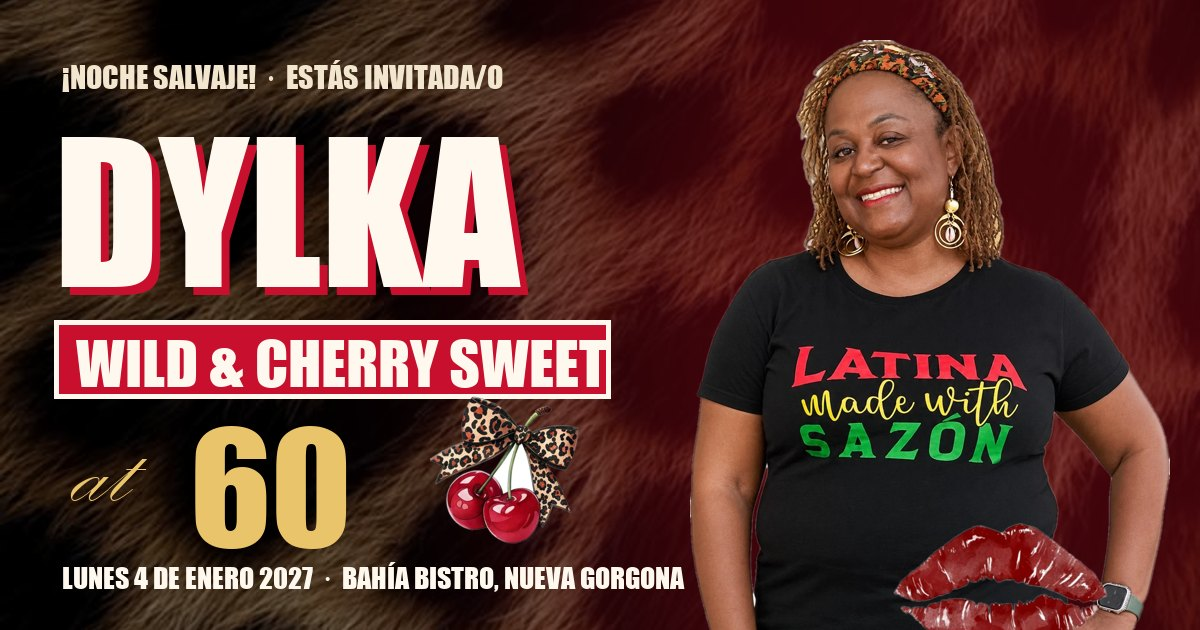
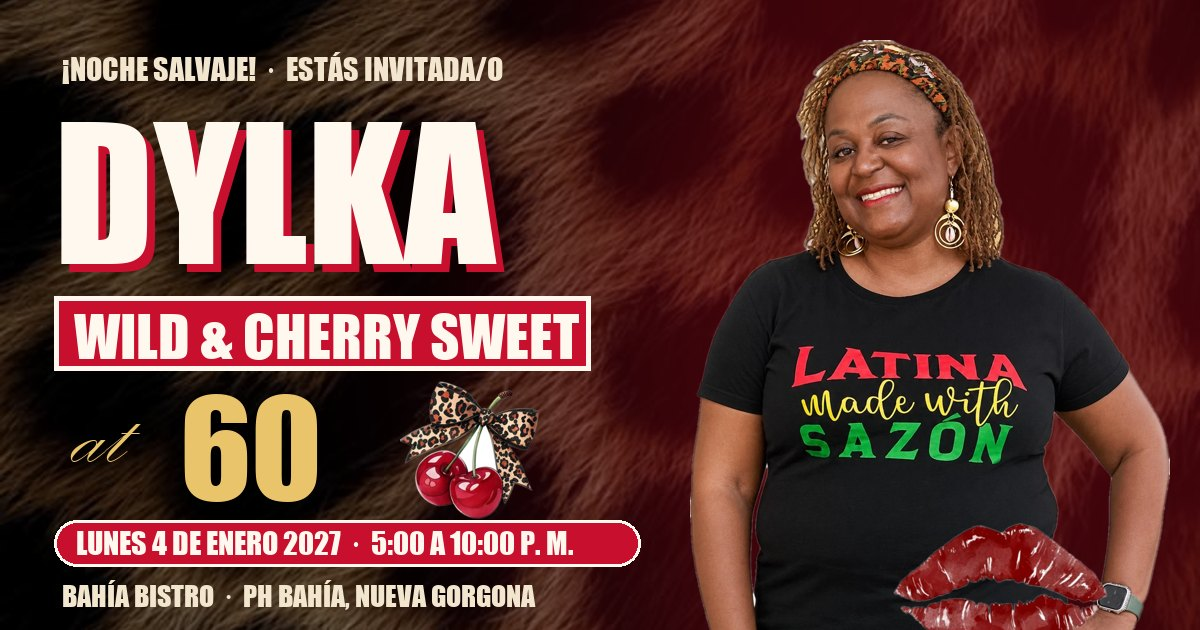
Horario 5:00 a 10:00 p. m., confirmación directa desde el enlace y contador automático en el panel

Changed region(s): [[0.0308, 0.181, 0.5858, 0.9651], [0.0308, 0.0905, 0.4317, 0.1508], [0.0617, 0.6635, 0.1233, 0.7841]]

diff --git a/index.html b/index.html
@@ -9,10 +9,10 @@
 <meta property="og:type" content="website">
 <meta property="og:site_name" content="Wild &amp; Cherry Sweet at 60">
 <meta property="og:title" content="Dylka · Wild &amp; Cherry Sweet at 60 🍒">
-<meta property="og:description" content="¡Estás invitada/o! Lunes 4 de enero de 2027 · Bahía Bistro, Nueva Gorgona. Toca para abrir tu invitación.">
+<meta property="og:description" content="¡Estás invitada/o! Lunes 4 de enero de 2027 · 5:00 a 10:00 p. m. · Bahía Bistro, Nueva Gorgona. Toca para abrir tu invitación.">
 <meta property="og:url" content="https://jadeinkinvitacionesdigitales-source.github.io/dylka-60/">
-<meta property="og:image" content="https://jadeinkinvitacionesdigitales-source.github.io/dylka-60/preview.jpg">
-<meta property="og:image:secure_url" content="https://jadeinkinvitacionesdigitales-source.github.io/dylka-60/preview.jpg">
+<meta property="og:image" content="https://jadeinkinvitacionesdigitales-source.github.io/dylka-60/preview.jpg?v=2">
+<meta property="og:image:secure_url" content="https://jadeinkinvitacionesdigitales-source.github.io/dylka-60/preview.jpg?v=2">
 <meta property="og:image:type" content="image/jpeg">
 <meta property="og:image:width" content="1200">
 <meta property="og:image:height" content="630">
@@ -21,7 +21,7 @@
 <meta property="og:locale:alternate" content="en_US">
 <meta name="twitter:card" content="summary_large_image">
 <meta name="theme-color" content="#0b0706">
-<meta name="description" content="Estás invitada/o a celebrar los 60 de Dylka: Wild & Cherry Sweet. Lunes 4 de enero de 2027, Bahía Bistro, Nueva Gorgona.">
+<meta name="description" content="Estás invitada/o a celebrar los 60 de Dylka: Wild & Cherry Sweet. Lunes 4 de enero de 2027, de 5:00 a 10:00 p. m., Bahía Bistro, Nueva Gorgona.">
 <link rel="preconnect" href="https://fonts.googleapis.com">
 <link rel="preconnect" href="https://fonts.gstatic.com" crossorigin>
 <link rel="stylesheet" href="https://fonts.googleapis.com/css2?family=Anton&family=Montserrat:wght@500;600;800;900&family=Pinyon+Script&display=swap">
@@ -98,6 +98,7 @@
   .seal:focus-visible { outline: 3px solid var(--gold); outline-offset: 10px; }
   .cover.kissing .seal { animation: none; }
   .cover.kissing .seal img { animation: kissZoom .7s cubic-bezier(.6,0,.4,1) forwards; }
+  .cover-date { font-weight: 800; letter-spacing: .16em; font-size: .74rem; color: var(--ink); background: rgba(200,16,46,.85); border: 2px solid var(--ink); border-radius: 999px; padding: 7px 14px; }
   .cover .hint { font-size: .8rem; color: var(--cream); opacity: .8; }
   @keyframes beat { 0%,100% { transform: scale(1); } 15% { transform: scale(1.07); } 30% { transform: scale(.98); } 45% { transform: scale(1.04); } }
   @keyframes ring { from { opacity: .9; scale: 1; } to { opacity: 0; scale: 1.45; } }
@@ -218,6 +219,7 @@
   .card { background: var(--card); border: 2px solid var(--gold); border-radius: 26px; padding: 18px 20px; }
   .lab { display: inline-block; background: var(--cherry); border: 3px solid var(--ink); font-family: var(--f-slam); font-size: 1.4rem; line-height: 1; padding: 5px 14px 2px; margin-bottom: 10px; }
   .big { font-weight: 900; font-size: 1.2rem; letter-spacing: .02em; line-height: 1.2; }
+  .small.time { font-weight: 800; font-size: 1.05rem; color: var(--gold); letter-spacing: .02em; }
   .small { font-weight: 500; font-size: .95rem; color: var(--cream); margin-top: 4px; line-height: 1.4; }
   .btn { display: inline-flex; align-items: center; gap: 8px; margin-top: 14px; padding: 12px 20px; border-radius: 999px; border: 3px solid var(--ink);
     background: var(--gold); color: var(--night); font-weight: 900; font-size: .9rem; letter-spacing: .06em; text-decoration: none; cursor: pointer; font-family: var(--f-body);
@@ -296,6 +298,7 @@
     <div class="guest" id="guestCover" hidden><small data-i18n="forYou">ESTA INVITACIÓN ES PARA</small><strong id="guestName"></strong><span id="guestSeats"></span></div>
     <h1>DYLKA</h1>
     <div class="when">Wild &amp; Cherry Sweet at 60</div>
+    <div class="cover-date" data-i18n="coverDate">LUNES 4 DE ENERO · 5:00 A 10:00 P. M.</div>
     <button class="seal" id="open" type="button" aria-label="Abrir la invitación" data-i18n-aria="openInvite">
       <img src="img/lips_red.webp" alt="">
       <span data-i18n="openMe">ÁBREME</span>
@@ -321,7 +324,7 @@
     <div class="age"><span class="at">at</span><span class="sixty" id="sixty">60</span></div>
     <div class="stage">
     <div class="xo">xoxo</div>
-    <div class="heart h1"><svg viewBox="0 0 100 92" aria-hidden="true"><path d="M50 88C20 66 2 50 2 28 2 12 14 2 28 2c10 0 18 6 22 14 4-8 12-14 22-14 14 0 26 10 26 26 0 22-18 38-48 60Z" fill="#c8102e" stroke="#fff8ee" stroke-width="3"/></svg><b data-i18n-html="heartDate">LUNES<br>4 ENE<br>2027</b></div>
+    <div class="heart h1"><svg viewBox="0 0 100 92" aria-hidden="true"><path d="M50 88C20 66 2 50 2 28 2 12 14 2 28 2c10 0 18 6 22 14 4-8 12-14 22-14 14 0 26 10 26 26 0 22-18 38-48 60Z" fill="#c8102e" stroke="#fff8ee" stroke-width="3"/></svg><b data-i18n-html="heartDate">LUNES<br>4 ENE<br>5 P. M.</b></div>
     <div class="heart h2"><svg viewBox="0 0 100 92" aria-hidden="true"><path d="M50 88C20 66 2 50 2 28 2 12 14 2 28 2c10 0 18 6 22 14 4-8 12-14 22-14 14 0 26 10 26 26 0 22-18 38-48 60Z" fill="#c8102e" stroke="#fff8ee" stroke-width="3"/></svg><b data-i18n-html="heartAge">MIS<br>60<br>AÑOS</b></div>
     <div class="photo"><img src="img/dylka.webp" alt="Dylka" width="760" height="1107"></div>
     </div>
@@ -350,6 +353,7 @@
       <div class="card" data-rv="left" style="--d:.1s">
         <div class="lab" data-i18n="when">CUÁNDO</div>
         <div class="big" data-i18n="date">LUNES 4 DE ENERO · 2027</div>
+        <div class="small time" data-i18n="time">De 5:00 p. m. a 10:00 p. m.</div>
       </div>
       <div class="card" data-rv="right" style="--d:.25s">
         <div class="lab" data-i18n="where">DÓNDE</div>
@@ -430,15 +434,15 @@
   const T = {
     es: {
       openInvite: 'Abrir la invitación', invited: 'TIENES UNA INVITACIÓN', openMe: 'ÁBREME', hint: 'Toca el beso · con música 🎶',
-      wild: '¡NOCHE SALVAJE!', heartDate: 'LUNES<br>4 ENE<br>2027', heartAge: 'MIS<br>60<br>AÑOS',
+      wild: '¡NOCHE SALVAJE!', heartDate: 'LUNES<br>4 ENE<br>5 P. M.', heartAge: 'MIS<br>60<br>AÑOS',
       countdown: 'FALTAN', days: 'DÍAS', hours: 'HORAS', mins: 'MIN', secs: 'SEG',
       countNote: 'para la noche más salvaje del año', today: '¡Hoy es la fiesta! 🍒',
-      party: 'LA FIESTA', seeYou: 'te espero', when: 'CUÁNDO', date: 'LUNES 4 DE ENERO · 2027', where: 'DÓNDE', directions: '📍 CÓMO LLEGAR',
+      party: 'LA FIESTA', seeYou: 'te espero', when: 'CUÁNDO', date: 'LUNES 4 DE ENERO · 2027', time: 'De 5:00 p. m. a 10:00 p. m.', coverDate: 'LUNES 4 DE ENERO · 5:00 A 10:00 P. M.', where: 'DÓNDE', directions: '📍 CÓMO LLEGAR',
       comeWild: 'ven salvaje', ladies: 'ELLAS', gents: 'ELLOS', safari: 'ESTILO SAFARI',
       rsvp: 'CONFIRMA', yourName: 'TU NOMBRE', namePh: 'Ej. María Pérez', attend: '¿Asistirás?', yes: '¡AHÍ ESTARÉ! 🍒', no: 'NO PODRÉ 💔',
       howMany: '¿CUÁNTAS PERSONAS?', message: 'MENSAJE PARA DYLKA (OPCIONAL)', msgPh: '¡Feliz 60!', send: 'ENVIAR POR WHATSAPP',
       love: 'con amor, Dylka', music: 'Música: activar o pausar', noName: '(sin nombre)',
-      waYes: (n, c) => `¡Hola Dylka! 🍒 Soy ${n} y confirmo mi asistencia a Wild & Cherry Sweet at 60 (lunes 4 de enero, Bahía Bistro). Seremos ${c} persona(s).`,
+      waYes: (n, c) => `¡Hola Dylka! 🍒 Soy ${n} y confirmo mi asistencia a Wild & Cherry Sweet at 60 (lunes 4 de enero, 5:00 p. m., Bahía Bistro). Seremos ${c} persona(s).`,
       waNo: n => `¡Hola Dylka! Soy ${n}. Lamentablemente no podré asistir a Wild & Cherry Sweet at 60. ¡Te deseo una noche increíble!`,
       forYou: 'ESTA INVITACIÓN ES PARA', seats: p => p === 1 ? '1 PUESTO RESERVADO' : `${p} PUESTOS RESERVADOS`,
       seatsNote: p => p === 1 ? 'Tenemos 1 puesto reservado para ti' : `Tenemos ${p} puestos reservados para ti`,
@@ -449,15 +453,15 @@
     },
     en: {
       openInvite: 'Open the invitation', invited: "YOU'RE INVITED", openMe: 'OPEN ME', hint: 'Tap the kiss · with music 🎶',
-      wild: 'A WILD NIGHT!', heartDate: 'MON<br>JAN 4<br>2027', heartAge: "I'M<br>TURNING<br>60",
+      wild: 'A WILD NIGHT!', heartDate: 'MON<br>JAN 4<br>5 PM', heartAge: "I'M<br>TURNING<br>60",
       countdown: 'COUNTDOWN', days: 'DAYS', hours: 'HOURS', mins: 'MIN', secs: 'SEC',
       countNote: 'until the wildest night of the year', today: "It's party day! 🍒",
-      party: 'THE PARTY', seeYou: 'see you there', when: 'WHEN', date: 'MONDAY, JANUARY 4 · 2027', where: 'WHERE', directions: '📍 GET DIRECTIONS',
+      party: 'THE PARTY', seeYou: 'see you there', when: 'WHEN', date: 'MONDAY, JANUARY 4 · 2027', time: 'From 5:00 PM to 10:00 PM', coverDate: 'MONDAY, JANUARY 4 · 5 TO 10 PM', where: 'WHERE', directions: '📍 GET DIRECTIONS',
       comeWild: 'come wild', ladies: 'LADIES', gents: 'GENTS', safari: 'SAFARI STYLE',
       rsvp: 'RSVP', yourName: 'YOUR NAME', namePh: 'e.g. Mary Smith', attend: 'Will you attend?', yes: "I'LL BE THERE! 🍒", no: "CAN'T MAKE IT 💔",
       howMany: 'HOW MANY GUESTS?', message: 'MESSAGE FOR DYLKA (OPTIONAL)', msgPh: 'Happy 60th!', send: 'SEND VIA WHATSAPP',
       love: 'with love, Dylka', music: 'Music: play or pause', noName: '(no name)',
-      waYes: (n, c) => `Hi Dylka! 🍒 This is ${n}, and I'm confirming for Wild & Cherry Sweet at 60 (Monday, January 4, Bahía Bistro). We'll be ${c} guest(s).`,
+      waYes: (n, c) => `Hi Dylka! 🍒 This is ${n}, and I'm confirming for Wild & Cherry Sweet at 60 (Monday, January 4, 5:00 PM, Bahía Bistro). We'll be ${c} guest(s).`,
       waNo: n => `Hi Dylka! This is ${n}. Unfortunately I can't make it to Wild & Cherry Sweet at 60. Wishing you an amazing night!`,
       forYou: 'THIS INVITATION IS FOR', seats: p => p === 1 ? '1 SEAT RESERVED' : `${p} SEATS RESERVED`,
       seatsNote: p => p === 1 ? 'We have 1 seat reserved for you' : `We have ${p} seats reserved for you`,
@@ -477,7 +481,7 @@
     const p = Math.max(1, Math.min(20, parseInt(qs.get('p'), 10) || 1));
     return { id: (qs.get('i') || '').replace(/[^a-zA-Z0-9_-]/g, '').slice(0, 40), name: n, seats: p };
   })();
-  const SAVE_KEY = 'dylka-rsvp-' + (guest && guest.id ? guest.id : 'general');
+  const SAVE_KEY = 'dylka-rsvp-' + (guest ? (guest.id || guest.name.toLowerCase()) : 'general');
   let saved = null;
   try { saved = JSON.parse(localStorage.getItem(SAVE_KEY) || 'null'); } catch (e) {}
   let lang = 'es';
@@ -576,7 +580,7 @@
   if (!reduce) requestAnimationFrame(frame);
 
   /* ---------- cuenta regresiva (hora de Panamá, UTC-5) ---------- */
-  const target = Date.parse('2027-01-04T00:00:00-05:00');
+  const target = Date.parse('2027-01-04T17:00:00-05:00');
   const pad = n => String(n).padStart(2, '0');
   const last = {};
   function put(id, v) { const el = document.getElementById(id); if (last[id] === v) return; last[id] = v; el.textContent = v;
@@ -632,7 +636,7 @@
     const nombre = form.name.value.trim();
     if (!nombre) { msgEl.textContent = t.errName; msgEl.classList.add('err'); form.name.focus(); return; }
     const data = { action: 'rsvp', id: guest ? guest.id : '', nombre, asiste: form.go.value,
-      personas: form.go.value === 'si' ? Number(form.count.value) : 0, mensaje: form.msg.value.trim(), idioma: lang };
+      personas: form.go.value === 'si' ? Number(form.count.value) : 0, puestos: guest ? guest.seats : '', mensaje: form.msg.value.trim(), idioma: lang };
     sendBtn.disabled = true; msgEl.classList.remove('err'); msgEl.textContent = t.sending;
     try {
       const r = await fetch(SCRIPT, { method: 'POST', headers: { 'Content-Type': 'text/plain;charset=utf-8' }, body: JSON.stringify(data) });

diff --git a/panel.html b/panel.html
@@ -10,6 +10,7 @@
 <style>
   :root{--noche:#0f0a09;--caja:rgba(26,18,16,.92);--cereza:#c8102e;--oro:#e9c46a;--texto:#fff8ee;--suave:#c9b9a6;--borde:#3a2a24;--ok:#3fae6a;--no:#e0555f;--espera:#c9a227}
   *{box-sizing:border-box;margin:0;padding:0}
+  [hidden]{display:none!important}
   body{font-family:'Montserrat',sans-serif;color:var(--texto);background:linear-gradient(180deg,rgba(15,10,9,.88),rgba(15,10,9,.96)),url("img/bg_leopard.webp") center/cover fixed;background-color:var(--noche);min-height:100vh;padding:24px 16px 60px}
   .contenedor{max-width:860px;margin:0 auto}
   header{text-align:center;margin-bottom:22px}
@@ -63,15 +64,15 @@
   <header>
     <h1>DYLKA</h1>
     <div class="script">Wild &amp; Cherry Sweet at 60</div>
-    <p>Panel de invitados · Lunes 4 de enero de 2027</p>
+    <p>Panel de invitados · Lunes 4 de enero de 2027 · 5:00 a 10:00 p. m.</p>
   </header>
 
   <div class="resumen">
     <div class="dato"><b id="totInvitados">0</b><span>Invitaciones</span></div>
     <div class="dato"><b id="totPuestos">0</b><span>Puestos</span></div>
-    <div class="dato ok"><b id="totSi">0</b><span>Confirmados</span></div>
-    <div class="dato no"><b id="totNo">0</b><span>No asisten</span></div>
-    <div class="dato espera"><b id="totEspera">0</b><span>Pendientes</span></div>
+    <div class="dato ok"><b id="totSi">0</b><span>Personas confirmadas</span></div>
+    <div class="dato no"><b id="totNo">0</b><span>Invitaciones que no asisten</span></div>
+    <div class="dato espera"><b id="totEspera">0</b><span>Invitaciones pendientes</span></div>
   </div>
 
   <div class="caja">
@@ -106,6 +107,19 @@
     <p class="ayuda">Cuando un invitado te confirme por WhatsApp, cambia su estado aquí.</p>
   </div>
 
+  <div class="caja" id="cajaLinea">
+    <div class="barra">
+      <h2 style="margin:0">Confirmaciones desde la invitación</h2>
+      <button class="btn claro mini" id="actualizar" type="button">↻ Actualizar</button>
+    </div>
+    <p class="ayuda" id="lineaEstado">Conectando…</p>
+    <form class="fila" id="formClave" style="grid-template-columns:1fr auto;margin-top:10px" hidden>
+      <div><label for="clave">Clave del panel</label><input id="clave" type="password" autocomplete="current-password"></div>
+      <button class="btn" type="submit">Conectar</button>
+    </form>
+    <div class="lista" id="listaLinea" style="margin-top:12px"></div>
+  </div>
+
   <div class="caja">
     <h2>Mensaje para enviar</h2>
     <label for="plantilla">Texto en español (usa {nombre}, {puestos} y {enlace})</label>
@@ -129,16 +143,21 @@
 </div>
 <div class="aviso" id="aviso" role="status" aria-live="polite"></div>
 
+<script src="config.js"></script>
 <script>
   const BASE = 'https://jadeinkinvitacionesdigitales-source.github.io/dylka-60/';
   const CLAVE = 'panel-dylka-60';
-  const TEXTO = '¡Hola {nombre}! 🍒\nCon mucho cariño te invito a celebrar mis 60: Wild & Cherry Sweet, el lunes 4 de enero de 2027 en Bahía Bistro, Nueva Gorgona.\nHe reservado {puestos} para ti.\n\nAquí está tu invitación:\n{enlace}';
-  const TEXTO_EN = "Hi {nombre}! 🍒\nI'd love for you to celebrate my 60th with me: Wild & Cherry Sweet, Monday, January 4, 2027 at Bahía Bistro, Nueva Gorgona.\nI've reserved {puestos} for you.\n\nHere's your invitation:\n{enlace}";
+  const TEXTO_V1 = '¡Hola {nombre}! 🍒\nCon mucho cariño te invito a celebrar mis 60: Wild & Cherry Sweet, el lunes 4 de enero de 2027 en Bahía Bistro, Nueva Gorgona.\nHe reservado {puestos} para ti.\n\nAquí está tu invitación:\n{enlace}';
+  const TEXTO = '¡Hola {nombre}! 🍒\nCon mucho cariño te invito a celebrar mis 60: Wild & Cherry Sweet, el lunes 4 de enero de 2027, de 5:00 a 10:00 p. m., en Bahía Bistro, Nueva Gorgona.\nHe reservado {puestos} para ti.\n\nAquí está tu invitación:\n{enlace}';
+  const TEXTO_EN_V1 = "Hi {nombre}! 🍒\nI'd love for you to celebrate my 60th with me: Wild & Cherry Sweet, Monday, January 4, 2027 at Bahía Bistro, Nueva Gorgona.\nI've reserved {puestos} for you.\n\nHere's your invitation:\n{enlace}";
+  const TEXTO_EN = "Hi {nombre}! 🍒\nI'd love for you to celebrate my 60th with me: Wild & Cherry Sweet, Monday, January 4, 2027, from 5:00 to 10:00 PM at Bahía Bistro, Nueva Gorgona.\nI've reserved {puestos} for you.\n\nHere's your invitation:\n{enlace}";
   const ESTADOS = { espera: 'Pendiente', si: 'Confirmado', no: 'No asiste' };
 
   const leer = () => { try { return JSON.parse(localStorage.getItem(CLAVE)) || {}; } catch { return {}; } };
   const datos = Object.assign({ invitados: [], plantilla: TEXTO, plantillaEn: TEXTO_EN }, leer());
   const guardar = () => { try { localStorage.setItem(CLAVE, JSON.stringify(datos)); } catch {} };
+  if (datos.plantilla === TEXTO_V1) datos.plantilla = TEXTO;
+  if (datos.plantillaEn === TEXTO_EN_V1) datos.plantillaEn = TEXTO_EN;
 
   const enlace = g => BASE + '?' + new URLSearchParams(Object.assign({ n: g.nombre, p: g.puestos }, g.idioma === 'en' ? { lang: 'en' } : {}));
   const puestosTxt = (n, en) => en ? (n == 1 ? '1 seat' : n + ' seats') : (n == 1 ? '1 puesto' : n + ' puestos');
@@ -164,14 +183,15 @@
           <button class="btn mini claro" data-acc="ver">Ver</button>
           <button class="btn mini peligro" data-acc="borrar">Quitar</button>
         </div>
-        <div class="enlace">${esc(enlace(g))}${g.tel ? ' · 📱 ' + esc(g.tel) : ''}${g.idioma === 'en' ? ' · English' : ''}</div>
+        <div class="enlace">${g.estado === 'si' && g.personas ? '✅ ' + (+g.personas) + ' de ' + (+g.puestos || 1) + ' confirmados' + (g.enLinea ? ' (desde la invitación)' : '') + ' · ' : ''}${g.estado === 'no' && g.enLinea ? '❌ Respondió desde la invitación · ' : ''}${g.mensaje ? '💬 “' + esc(g.mensaje) + '” · ' : ''}${esc(enlace(g))}${g.tel ? ' · 📱 ' + esc(g.tel) : ''}${g.idioma === 'en' ? ' · English' : ''}</div>
       </div>`).join('') : `<p class="vacio">${datos.invitados.length ? 'Nadie coincide con la búsqueda.' : 'Aún no hay invitados. Agrega el primero arriba.'}</p>`;
     const inv = datos.invitados, suma = arr => arr.reduce((s, g) => s + (+g.puestos || 0), 0);
     document.getElementById('totInvitados').textContent = inv.length;
     document.getElementById('totPuestos').textContent = suma(inv);
-    document.getElementById('totSi').textContent = suma(inv.filter(g => g.estado === 'si'));
-    document.getElementById('totNo').textContent = suma(inv.filter(g => g.estado === 'no'));
-    document.getElementById('totEspera').textContent = suma(inv.filter(g => !g.estado || g.estado === 'espera'));
+    const fuera = linea.filter(r => r.asiste === 'si' && !buscarInvitado(r.nombre)).reduce((s, r) => s + (+r.personas || 0), 0);
+    document.getElementById('totSi').textContent = inv.filter(g => g.estado === 'si').reduce((s, g) => s + (+(g.personas || g.puestos) || 0), 0) + fuera;
+    document.getElementById('totNo').textContent = inv.filter(g => g.estado === 'no').length;
+    document.getElementById('totEspera').textContent = inv.filter(g => !g.estado || g.estado === 'espera').length;
   }
 
   document.getElementById('formNuevo').addEventListener('submit', e => {
@@ -191,7 +211,7 @@
     if (!fila || !campo) return;
     const g = datos.invitados[fila.dataset.k];
     if (campo === 'puestos') g.puestos = Math.max(1, Math.min(20, parseInt(e.target.value, 10) || 1));
-    else if (campo === 'estado') g.estado = e.target.value in ESTADOS ? e.target.value : 'espera';
+    else if (campo === 'estado') { g.estado = e.target.value in ESTADOS ? e.target.value : 'espera'; g.personas = g.estado === 'si' ? (+g.personas || +g.puestos || 1) : 0; g.enLinea = false; }
     else g.nombre = e.target.value.trim() || g.nombre;
     guardar(); pintar(); aviso(campo === 'estado' ? 'Estado: ' + ESTADOS[g.estado] : 'Cambios guardados');
   });
@@ -240,7 +260,51 @@
     e.target.value = '';
   });
 
-  pintar();
+  /* ---------- confirmaciones desde la invitación (Google Sheets) ---------- */
+  const SCRIPT = String((window.DYLKA_CONFIG && window.DYLKA_CONFIG.scriptUrl) || '').trim();
+  const CLAVE_KEY = 'panel-dylka-60-clave';
+  let linea = [];
+  const normal = t => String(t || '').normalize('NFD').replace(/[\u0300-\u036f]/g, '').toLowerCase().replace(/\s+/g, ' ').trim();
+  function buscarInvitado(nombre) { const n = normal(nombre); return datos.invitados.find(g => normal(g.nombre) === n); }
+  function claveGuardada() { try { return localStorage.getItem(CLAVE_KEY) || ''; } catch { return ''; } }
+  function pintarLinea() {
+    const caja = document.getElementById('listaLinea');
+    const orden = [...linea].sort((a, b) => String(b.fecha).localeCompare(String(a.fecha)));
+    caja.innerHTML = orden.length ? orden.map(r => {
+      const f = new Date(r.fecha), en = buscarInvitado(r.nombre);
+      return `<div class="invitado ${r.asiste === 'si' ? 'si' : 'no'}" style="grid-template-columns:1fr auto">
+        <div><b>${esc(r.nombre)}</b> · ${r.asiste === 'si' ? 'Asiste · ' + (+r.personas || 0) + ' persona(s)' : 'No asiste'}${en ? '' : ' · <i>no está en tu lista</i>'}</div>
+        <div class="ayuda" style="margin:0">${isNaN(f) ? '' : f.toLocaleString('es-PA', { dateStyle: 'medium', timeStyle: 'short' })}</div>
+        ${r.mensaje ? `<div class="enlace">💬 “${esc(r.mensaje)}”</div>` : ''}
+      </div>`;
+    }).join('') : '<p class="vacio">Todavía nadie ha confirmado desde la invitación.</p>';
+  }
+  async function cargarLinea() {
+    const estado = document.getElementById('lineaEstado');
+    if (!SCRIPT) { estado.textContent = 'Las confirmaciones desde la invitación aún no están activadas. Mientras tanto, cambia el estado de cada invitado a mano.'; document.getElementById('actualizar').hidden = true; return; }
+    const clave = claveGuardada();
+    if (!clave) { estado.textContent = 'Escribe la clave del panel una sola vez para ver las confirmaciones.'; document.getElementById('formClave').hidden = false; return; }
+    try {
+      const u = new URL(SCRIPT); u.searchParams.set('action', 'list'); u.searchParams.set('key', clave);
+      const j = await (await fetch(u.href)).json();
+      if (!j.ok) { if (j.error === 'clave') { try { localStorage.removeItem(CLAVE_KEY); } catch {} document.getElementById('formClave').hidden = false; estado.textContent = 'La clave no es correcta. Escríbela de nuevo.'; return; } throw new Error(j.error); }
+      linea = j.rsvps || [];
+      linea.forEach(r => { const g = buscarInvitado(r.nombre); if (g) { g.estado = r.asiste === 'si' ? 'si' : 'no'; g.personas = +r.personas || 0; g.mensaje = r.mensaje || ''; g.enLinea = true; } });
+      guardar(); pintar(); pintarLinea();
+      document.getElementById('formClave').hidden = true;
+      estado.textContent = `${linea.length} respuesta(s) recibidas. Se actualiza solo cada minuto · última vez ${new Date().toLocaleTimeString('es-PA', { hour: 'numeric', minute: '2-digit' })}`;
+    } catch (err) { estado.textContent = 'No se pudieron leer las confirmaciones. Revisa tu conexión y toca Actualizar.'; }
+  }
+  document.getElementById('formClave').addEventListener('submit', e => {
+    e.preventDefault();
+    const v = document.getElementById('clave').value.trim(); if (!v) return;
+    try { localStorage.setItem(CLAVE_KEY, v); } catch {}
+    document.getElementById('clave').value = ''; cargarLinea();
+  });
+  document.getElementById('actualizar').addEventListener('click', cargarLinea);
+  setInterval(() => { if (SCRIPT && !document.hidden) cargarLinea(); }, 60000);
+
+  pintar(); pintarLinea(); cargarLinea();
 </script>
 </body>
 </html>
